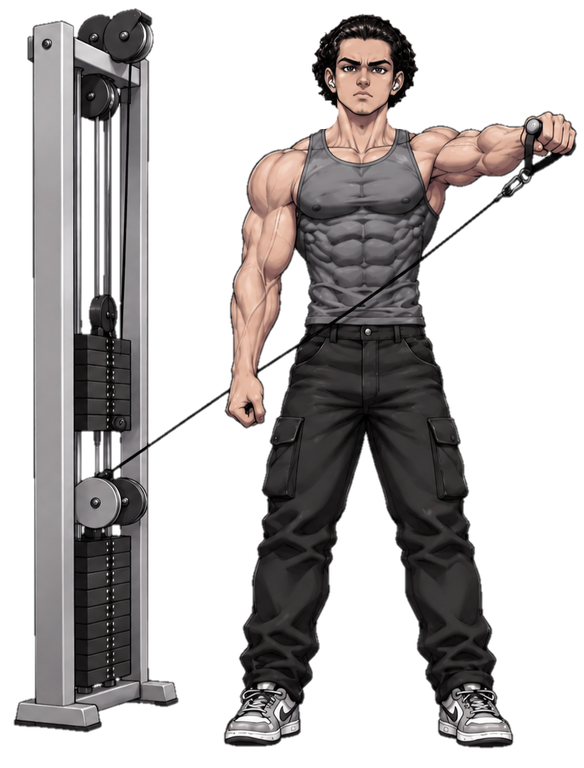
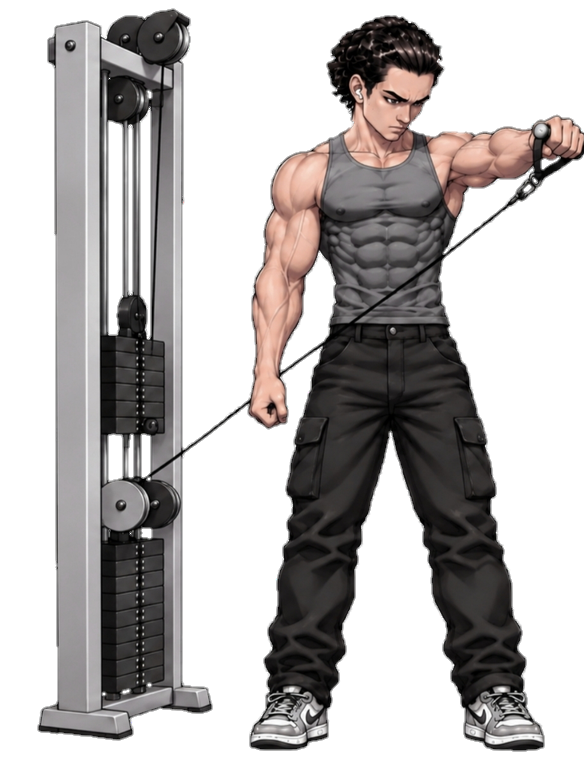
Add files via upload

diff --git a/sw.js b/sw.js
@@ -1,4 +1,4 @@
-var C="workout-v30",F=["./","index.html","manifest.webmanifest","icon-192.png","icon-512.png","figure.png","ziad.png","dardiry.png","jamal.png","lat-up.png","lat-down.png","chest-up.png","chest-down.png","biceps-up.png","biceps-down.png","tbar-up.png","tbar-down.png","nglat-relaxed.png","nglat-pulled.png","tri-relaxed.png","tri-extended.png","curl-relaxed.png","curl-bended.png","shpress-down.png","shpress-up.png","wg-up.png","wg-down.png","sacablefly-relaxed.png","sacablefly-pulled.png","legext-down.png","legext-up.png","slc4-up.png","slc2-curled.png","salat-relaxed.png","salat-raised.png","revcurl-down.png","revcurl-up.png","wristcurl-down.png","wristcurl-up.png","ohtri-bent.png","ohtri-extended.png","smithshrug-down.png","smithshrug-up2.png","legpresscalf.png","legpress-down.png","legpress-up.png","widechest-down.png","widechest-up.png","inclinedchest-down.png","inclinedchest-up.png"];
+var C="workout-v31",F=["./","index.html","manifest.webmanifest","icon-192.png","icon-512.png","figure.png","ziad.png","dardiry.png","jamal.png","lat-up.png","lat-down.png","chest-up.png","chest-down.png","biceps-up.png","biceps-down.png","tbar-up.png","tbar-down.png","nglat-relaxed.png","nglat-pulled.png","tri-relaxed.png","tri-extended.png","curl-relaxed.png","curl-bended.png","shpress-down.png","shpress-up.png","wg-up.png","wg-down.png","sacablefly-relaxed.png","sacablefly-pulled.png","legext-down.png","legext-up.png","slc4-up.png","slc2-curled.png","salat-relaxed.png","salat-raised.png","revcurl-down.png","revcurl-up.png","wristcurl-down.png","wristcurl-up.png","ohtri-bent.png","ohtri-extended.png","smithshrug-down.png","smithshrug-up2.png","legpresscalf.png","legpress-down.png","legpress-up.png","widechest-down.png","widechest-up.png","inclinedchest-down.png","inclinedchest-up.png"];
 self.addEventListener("install",function(e){e.waitUntil(caches.open(C).then(function(c){return c.addAll(F)}));self.skipWaiting()});
 self.addEventListener("activate",function(e){e.waitUntil(caches.keys().then(function(k){return Promise.all(k.filter(function(n){return n!==C}).map(function(n){return caches.delete(n)}))}));self.clients.claim()});
 self.addEventListener("fetch",function(e){if(e.request.method!=="GET")return;e.respondWith(fetch(e.request).then(function(r){var c=r.clone();caches.open(C).then(function(x){x.put(e.request,c)});return r}).catch(function(){return caches.match(e.request).then(function(m){return m||caches.match("index.html")})}))});
